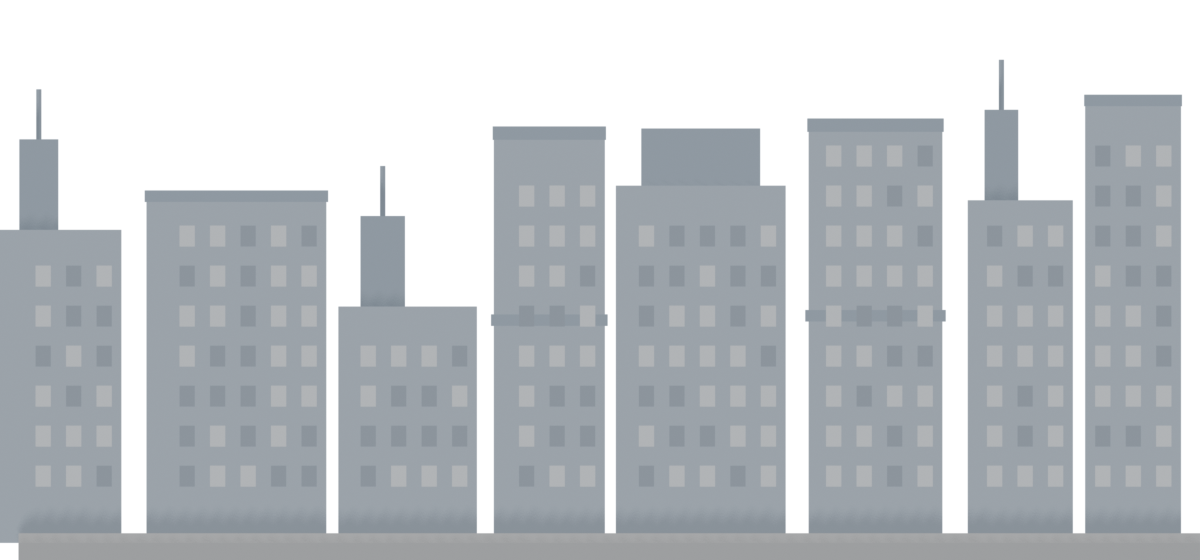
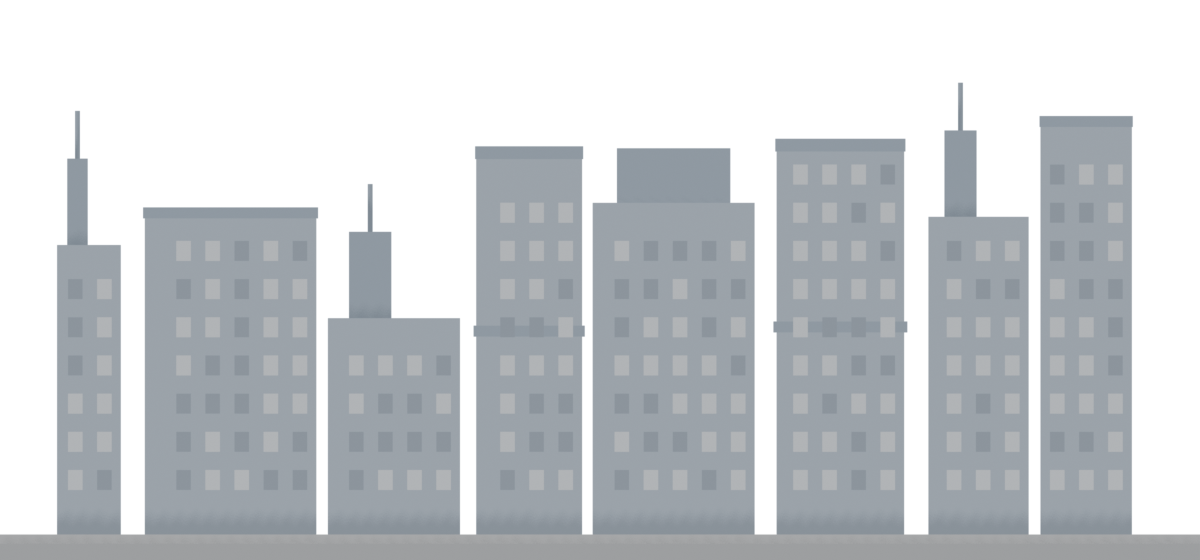
Ship: playfeel QA — dive-bomb test, skyline seam pad, screenshots
Add dive-bomb engagement coverage and portrait scene dumps. Pad skyline
sidewalks so parallax tile edges match. Suite at 105 green.

diff --git a/test/game/playfeel_screenshot_test.dart b/test/game/playfeel_screenshot_test.dart
@@ -1,0 +1,107 @@
+import 'dart:io';
+import 'dart:math';
+import 'dart:ui';
+
+import 'package:flame/components.dart';
+import 'package:flame_test/flame_test.dart';
+import 'package:flutter_test/flutter_test.dart';
+import 'package:poopy_bird/components/car.dart';
+import 'package:poopy_bird/components/poop.dart';
+import 'package:poopy_bird/game/config.dart';
+import 'package:poopy_bird/game/poopy_bird_game.dart';
+import 'package:poopy_bird/systems/car_type.dart';
+import 'package:poopy_bird/systems/food.dart';
+
+const _frame = 1 / 60;
+
+Future<void> _dump(PoopyBirdGame game, String name) async {
+  final size = game.size;
+  final recorder = PictureRecorder();
+  game.render(Canvas(recorder));
+  final picture = recorder.endRecording();
+  final image = await picture.toImage(size.x.toInt(), size.y.toInt());
+  final bytes = await image.toByteData(format: ImageByteFormat.png);
+  final out = File('.artifacts/$name.png')..createSync(recursive: true);
+  await out.writeAsBytes(bytes!.buffer.asUint8List());
+  expect(out.existsSync(), isTrue);
+}
+
+Future<void> _tick(PoopyBirdGame game, int frames) async {
+  for (var i = 0; i < frames; i++) {
+    game.update(_frame);
+    await game.ready();
+  }
+}
+
+void main() {
+  TestWidgetsFlutterBinding.ensureInitialized();
+
+  testWithGame<PoopyBirdGame>(
+    'dive-bomb engages below cruise and marks poops',
+    () => PoopyBirdGame(random: Random(3)),
+    (game) async {
+      game.belly.eat(FoodType.berries);
+      final startY = game.bird.position.y;
+      expect(startY, closeTo(game.cruiseY, GameConfig.cruiseBobAmplitude + 2));
+
+      game.bird.diving = true;
+      await _tick(game, 45);
+      expect(game.bird.position.y, greaterThan(startY + GameConfig.diveEngagePadding));
+      expect(game.bird.isDiveBombing, isTrue);
+
+      final poop = game.bird.poop();
+      expect(poop, isNotNull);
+      expect(poop!.diveBomb, isTrue);
+      expect(poop.velocityY, GameConfig.poopMaxDropSpeed);
+    },
+  );
+
+  testWithGame<PoopyBirdGame>(
+    'dump playfeel screenshots (cars, street, skyline, bird)',
+    () => PoopyBirdGame(random: Random(11)),
+    (game) async {
+      // Phone-ish portrait canvas.
+      game.onGameResize(Vector2(720, 1280));
+      await game.ready();
+
+      for (final c in game.world.children.whereType<Car>().toList()) {
+        c.removeFromParent();
+      }
+      await game.ready();
+
+      const types = [
+        CarType.sedan,
+        CarType.taxi,
+        CarType.sportsCar,
+        CarType.police,
+        CarType.bus,
+      ];
+      var x = 48.0;
+      for (var i = 0; i < types.length; i++) {
+        final lane = i.isEven ? 0 : 1;
+        final t = types[i];
+        await game.world.add(Car(
+          type: t,
+          lane: lane,
+          speed: 0,
+          position: Vector2(x, game.laneBaseline(lane)),
+        ));
+        x += t.width + 20;
+      }
+      await _tick(game, 8);
+      await _dump(game, 'qa_full_scene');
+
+      // Dive pose for bird.
+      game.bird.diving = true;
+      await _tick(game, 40);
+      await _dump(game, 'qa_dive_pose');
+
+      // Cruise-only plate (bird up, no dive).
+      game.bird.diving = false;
+      game.bird.position.y = game.cruiseY;
+      game.bird.velocityY = 0;
+      await _tick(game, 5);
+      await _dump(game, 'qa_cruise_pose');
+    },
+  );
+}

diff --git a/tools/blender/models.py b/tools/blender/models.py
@@ -856,21 +856,24 @@ def build_skyline_tile(*, seed: int, near: bool, length: float = 12.0):
         f"sky_{seed}_walk", (0.62, 0.64, 0.66, 1.0), steps=2
     )
 
-    # Continuous sidewalk that pins the strip to the street line.
+    # Continuous sidewalk past the strip ends so parallax tiles seam cleanly.
     objs = [
         mesh_cube(
-            f"walk_{seed}", (length + 0.4, depth + 0.35, 0.18),
+            f"walk_{seed}", (length + 1.2, depth + 0.35, 0.18),
             (0, 0.05, 0.09), walk_mat,
         ),
         mesh_cube(
-            f"curb_{seed}", (length + 0.4, 0.22, 0.28),
+            f"curb_{seed}", (length + 1.2, 0.22, 0.28),
             (0, depth * 0.55, 0.14), curb_mat,
         ),
     ]
 
-    x = -length * 0.5
-    while x < length * 0.5:
+    x = -length * 0.5 + 0.15
+    end_x = length * 0.5 - 0.15
+    while x < end_x:
         w = 0.85 + rng.random() * 1.15
+        if x + w > end_x:
+            w = max(0.7, end_x - x)
         h = h_range[0] + rng.random() * (h_range[1] - h_range[0])
         style = rng.choice(["block", "setback", "tower", "ledge"])
         cx = x + w * 0.5
